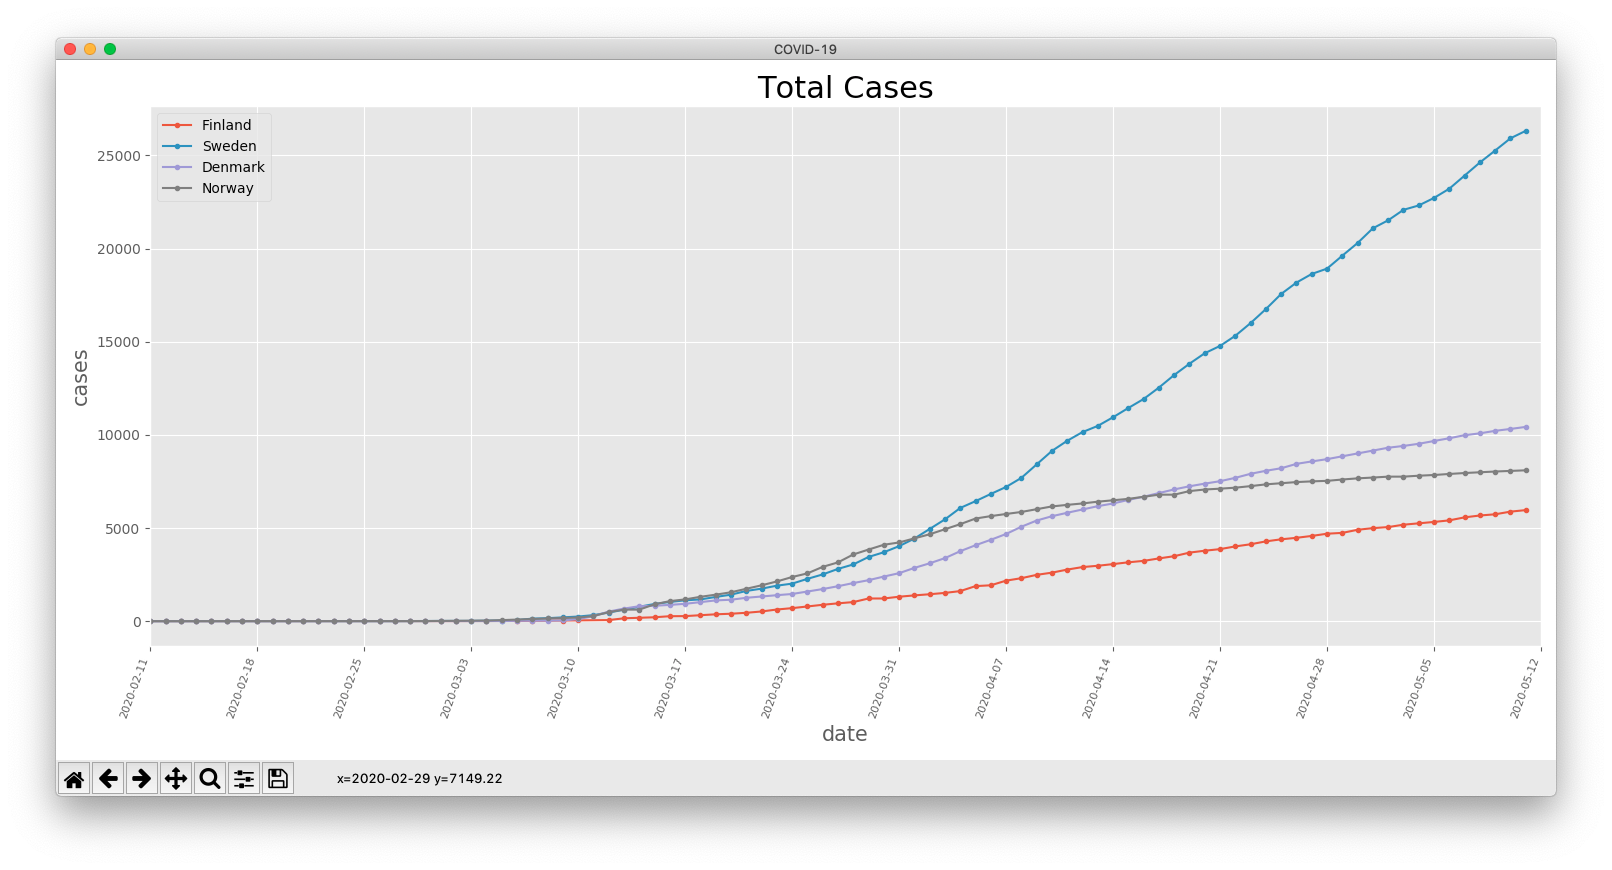
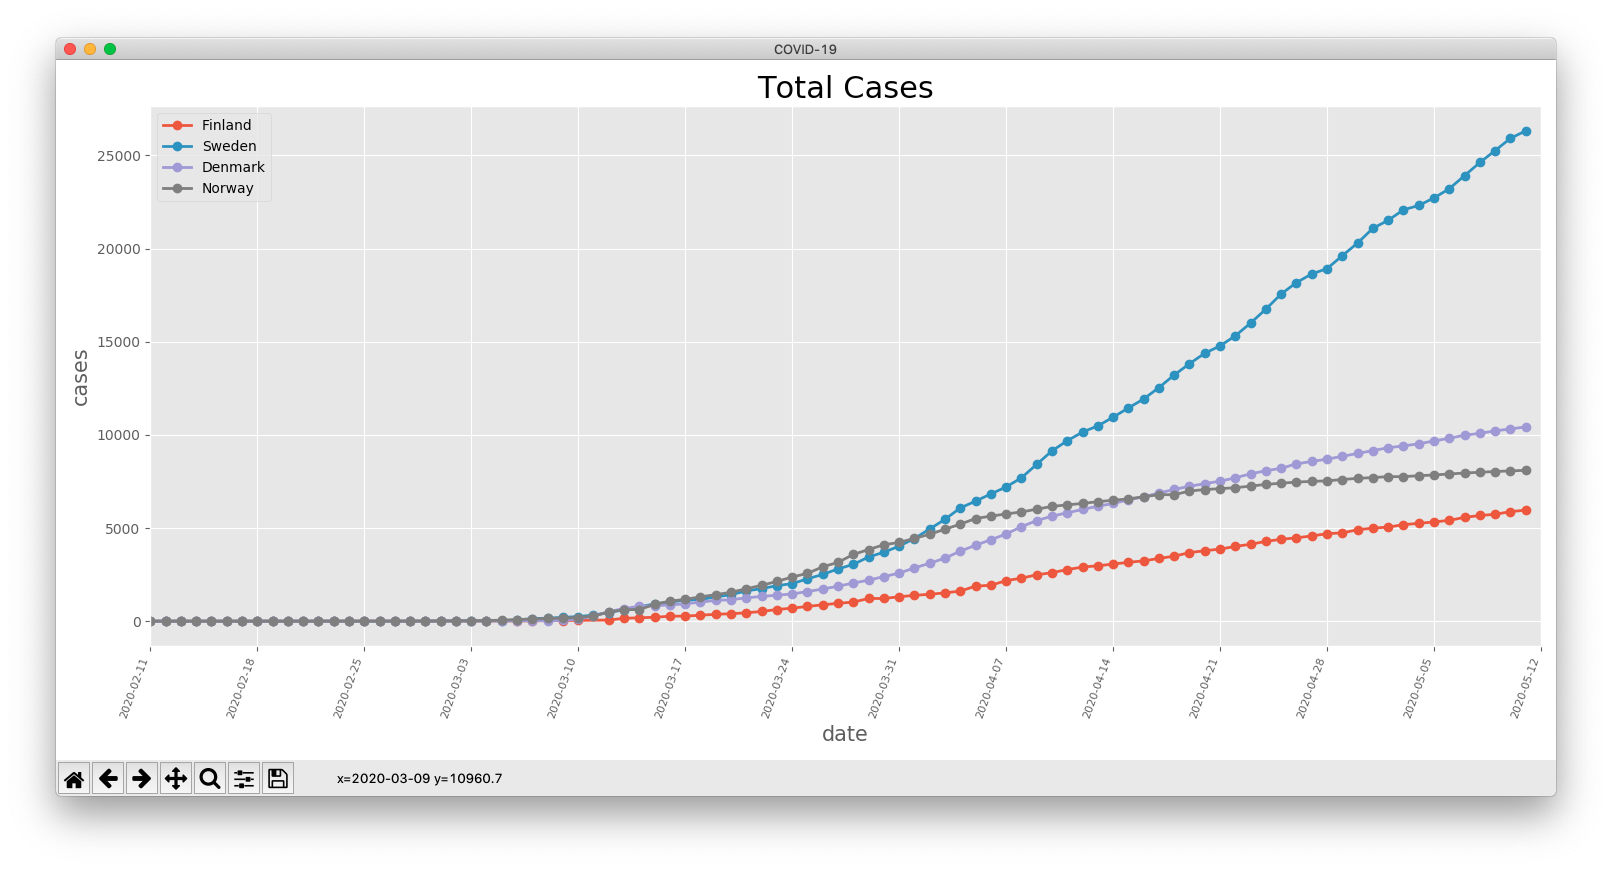
more visible lines

diff --git a/corona_graph.py b/corona_graph.py
@@ -64,7 +64,7 @@ while True:
     if chart == 'new_cases' or chart == 'new_deaths':
         ax.bar(new_df['date'], new_df[chart], alpha=0.5, label=new_country.title())
     else:
-        ax.plot(new_df.date, new_df[chart], marker='.', label=new_country.title())
+        ax.plot(new_df.date, new_df[chart], marker='.', label=new_country.title(), linewidth=2, markersize=12)
 
 # Adjust time period and show graph
 stardate = choose_time_period(youngest)
